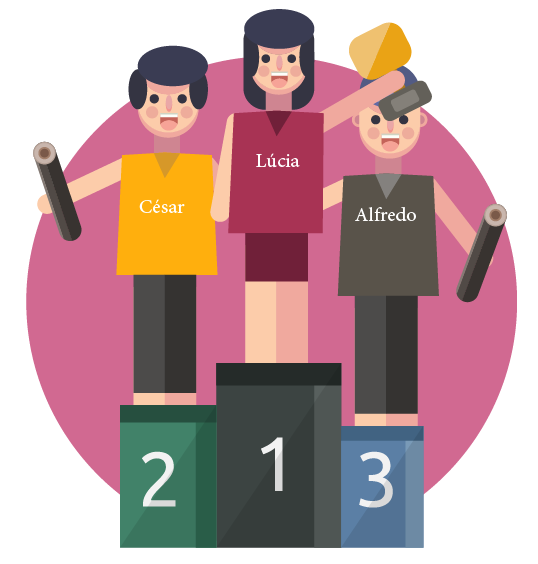
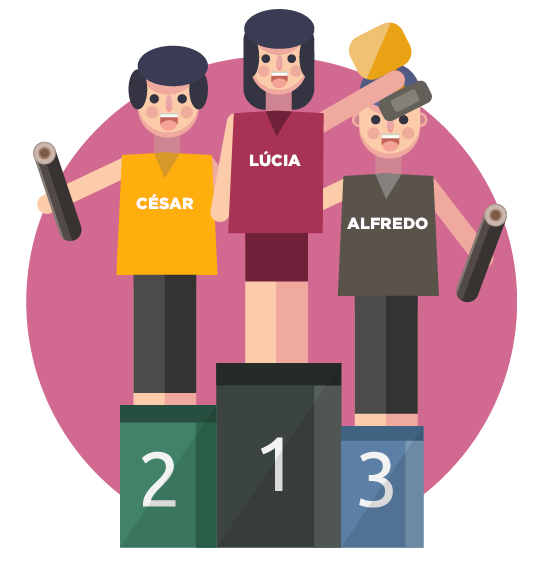
Trabalhando imagens em 1M

Changed region(s): [[0.6543, 0.3617, 0.803, 0.422], [0.2379, 0.3316, 0.3569, 0.3918], [0.4461, 0.2713, 0.5651, 0.3014]]

diff --git a/1M/MAT.tex b/1M/MAT.tex
@@ -252,18 +252,17 @@ Unidades
 
 \begin{figure}[H]
 \centering
-\includegraphics[width=.8\textwidth]{./media/SAEB_1ANO_MAT_FIGURA13.png}
-\includegraphics[width=.8\textwidth]{./media/SAEB_1ANO_MAT_FIGURA13a.png}
+\includegraphics[width=.9\textwidth]{./media/SAEB_1ANO_MAT_FIGURA13.png}
 \end{figure}
 
-%\begin{longtable}[]{@{}ll@{}}
-%\toprule
-%\textbf{PONTOS} & \textbf{NOMES}\tabularnewline
-%1~000 PONTOS & \rosa{César}\tabularnewline
-%1~005 PONTOS & \rosa{Lúcia}\tabularnewline
-%1~0004 PONTOS & \rosa{Alfredo}\tabularnewline
-%\bottomrule
-%\end{longtable}
+\begin{longtable}[]{@{}ll@{}}
+\toprule
+\textbf{PONTUAÇÃO} & \textbf{NOME}\tabularnewline
+1.000 PONTOS & \rosa{ALFREDO FOI O TERCEIRO COLOCADO.}\tabularnewline
+1.005 PONTOS & \rosa{LÚCIA FOI A PRIMEIRA COLOCADA.}\tabularnewline
+1.0004 PONTOS & \rosa{CÉSAR FOI O SEGUNDO COLOCADO.}\tabularnewline
+\bottomrule
+\end{longtable}
 
 %\coment{É importante que os alunos compreendam que o primeiro colocado deve ter feito a maior quantidade de pontos, e assim por diante.}
 
@@ -849,7 +848,7 @@ EM SEU DIA A DIA.
 
 \begin{figure}[H]
 \centering
-\includegraphics[width=.6\textwidth]{./media/SAEB_1ANO_MAT_FIGURA37.png}
+\includegraphics[width=.65\textwidth]{./media/SAEB_1ANO_MAT_FIGURA37.png}
 \end{figure}
 
 \num{5} LIGUE CADA PESSOA À SUA CAMA.
@@ -858,7 +857,7 @@ EM SEU DIA A DIA.
 
 \begin{figure}[H]
 \centering
-\includegraphics[width=.6\textwidth]{./media/SAEB_1ANO_MAT_FIGURA38.png}
+\includegraphics[width=.65\textwidth]{./media/SAEB_1ANO_MAT_FIGURA38.png}
 \end{figure}
 
 %\coment{É importante que o aluno reconheça que as diferenças de altura entre as pessoas se reflete na diferença de tamanho das camas. É assim que o aluno conseguirá inferir a medida de comprimento.}

diff --git a/1M/INTRO.tex b/1M/INTRO.tex
@@ -28,7 +28,7 @@ INÍCIO DE UM PERÍODO DE TRANSIÇÃO ENTRE AS MATRIZES DE REFERÊNCIA
 UTILIZADAS DESDE 2001 E AS NOVAS MATRIZES ELABORADAS EM CONFORMIDADE COM
 A BASE NACIONAL COMUM CURRICULAR (BNCC).
 
-\section{REVISA SAEB: REFORÇO ESCOLAR}
+\section*{REVISA SAEB: REFORÇO ESCOLAR}
 
 COMO O PRÓPRIO NOME DIZ, A EDUCAÇÃO BÁSICA É AQUELA EM QUE SE PROMOVE A
 FORMAÇÃO MAIS ESSENCIAL DOS ALUNOS. O SISTEMA DE AVALIAÇÃO DA EDUCAÇÃO
